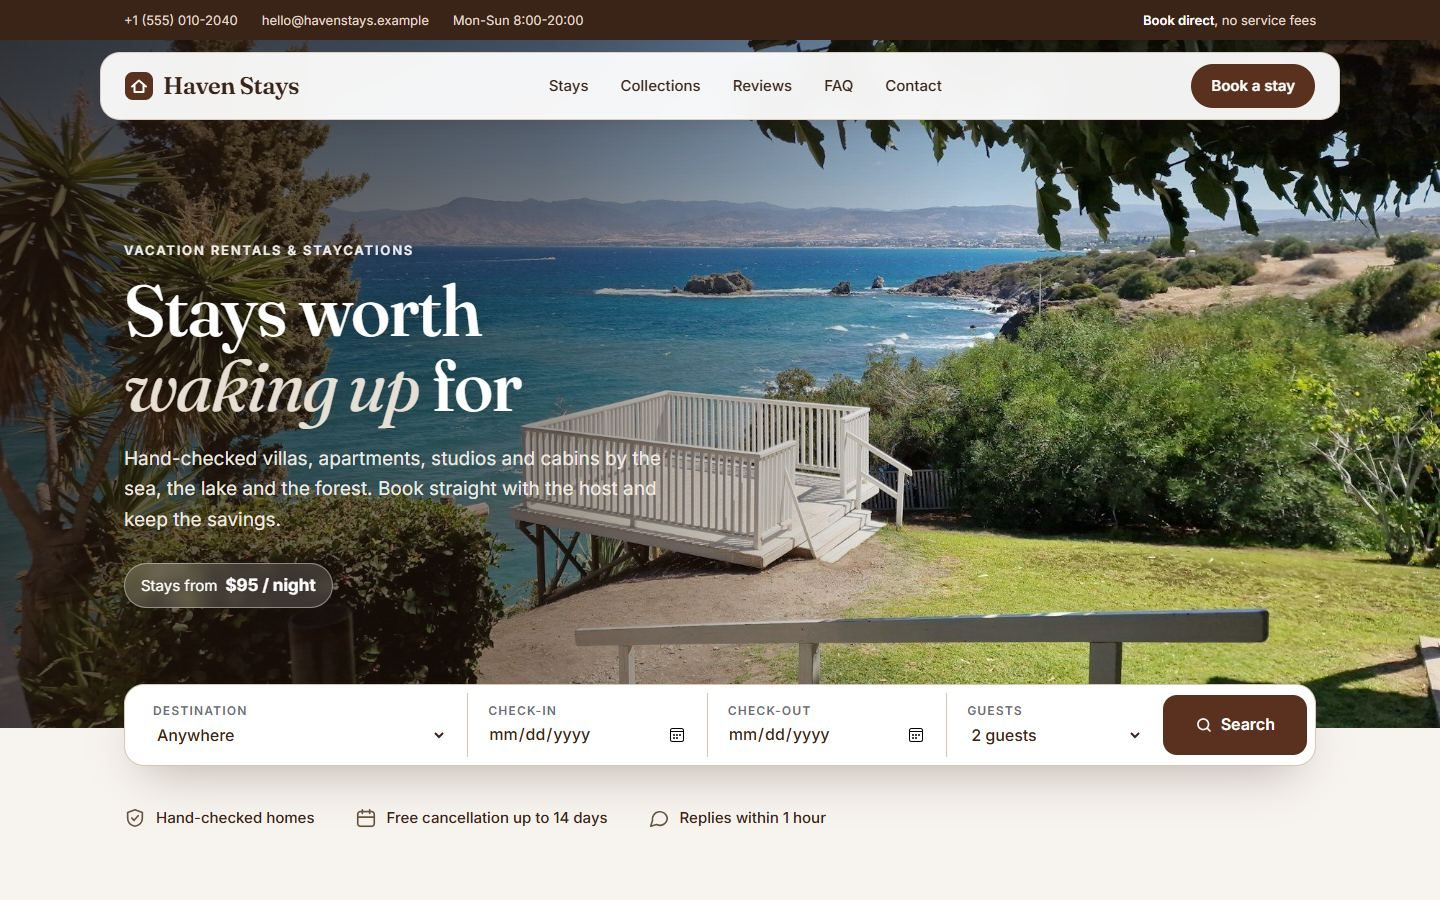
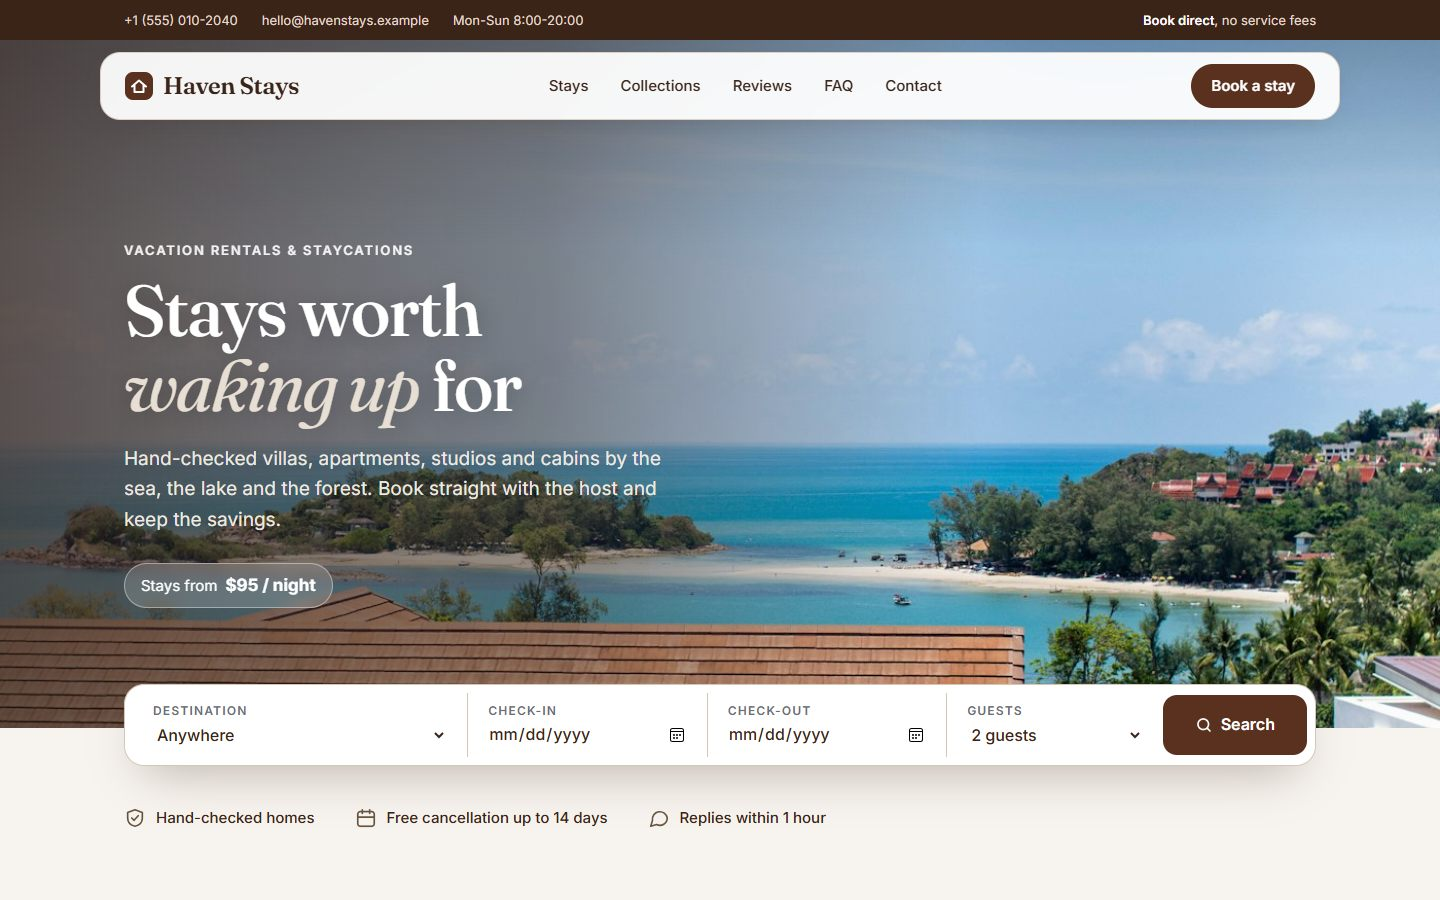
Haven Stays: restore the beach hero photo
The owner prefers the original bay view; the coastline photo is removed.

diff --git a/public/sites/rental/index.html b/public/sites/rental/index.html
@@ -58,7 +58,7 @@ nav a.on{background:rgba(103,84,62,.12);color:var(--teal)}
 .mnav{display:none}
 /* hero */
 .hero{position:relative;min-height:680px;padding:200px 0 120px;color:#fff;isolation:isolate;overflow:hidden;background:#4A3326}
-.hero>img{position:absolute;inset:0;width:100%;height:100%;object-fit:cover;object-position:center 55%;z-index:-2}
+.hero>img{position:absolute;inset:0;width:100%;height:100%;object-fit:cover;object-position:center 40%;z-index:-2}
 .hero::after{content:"";position:absolute;inset:0;z-index:-1;background:linear-gradient(90deg,rgba(36,20,12,.72) 0%,rgba(36,20,12,.45) 38%,rgba(36,20,12,0) 68%),linear-gradient(180deg,rgba(36,20,12,.25),rgba(36,20,12,0) 30%)}
 .hero .eyebrow{color:#fff;opacity:.92}
 .hero h1{font-size:72px;line-height:1.05;max-width:12ch;text-shadow:0 2px 24px rgba(0,0,0,.25)}
@@ -221,7 +221,7 @@ nav a.on{background:rgba(103,84,62,.12);color:var(--teal)}
 .hdr .pill{margin:0 12px;padding:0 8px}.mnav{margin:8px 12px 0}
 .sec{padding:32px 0}.band{margin:32px 0;padding:64px 0}.sec.first{padding-top:56px}
 h2{font-size:32px}.head{margin-bottom:32px}
-.hero{min-height:0;padding:150px 0 96px}.hero>img{object-position:62% 50%}.hero h1{font-size:42px}.hero p{font-size:17px}
+.hero{min-height:0;padding:150px 0 96px}.hero>img{object-position:70% 20%}.hero h1{font-size:42px}.hero p{font-size:17px}
 .hero::after{background:linear-gradient(180deg,rgba(36,20,12,.55),rgba(36,20,12,.6))}
 .sbox{margin-top:-48px}.search{grid-template-columns:1fr}
 .grid,.cols,.rgrid,.two,.fg{grid-template-columns:1fr}.cols .tile,.cols .tile:last-child{aspect-ratio:4/3}
@@ -250,7 +250,7 @@ h2{font-size:32px}.head{margin-bottom:32px}
 
 <main id="top">
 <div class="hero">
- <img src="img/coast-garden.jpg" alt="Garden lookout above a turquoise sea and rocky coastline" fetchpriority="high" decoding="async">
+ <img src="img/infinity-bay.jpg" alt="Infinity pool overlooking a turquoise tropical bay" fetchpriority="high" decoding="async">
  <div class="wrap">
   <span class="eyebrow">Vacation rentals &amp; staycations</span>
   <h1>Stays worth <em>waking up</em> for</h1>
